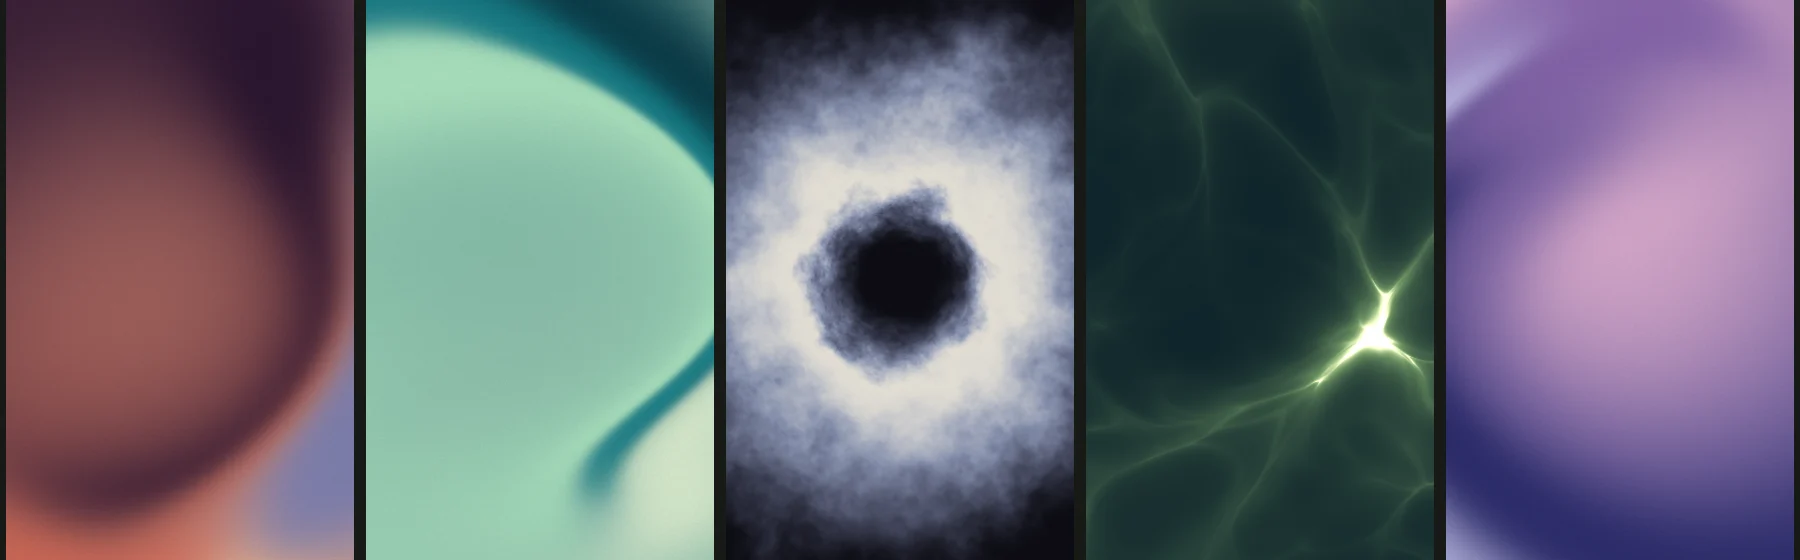
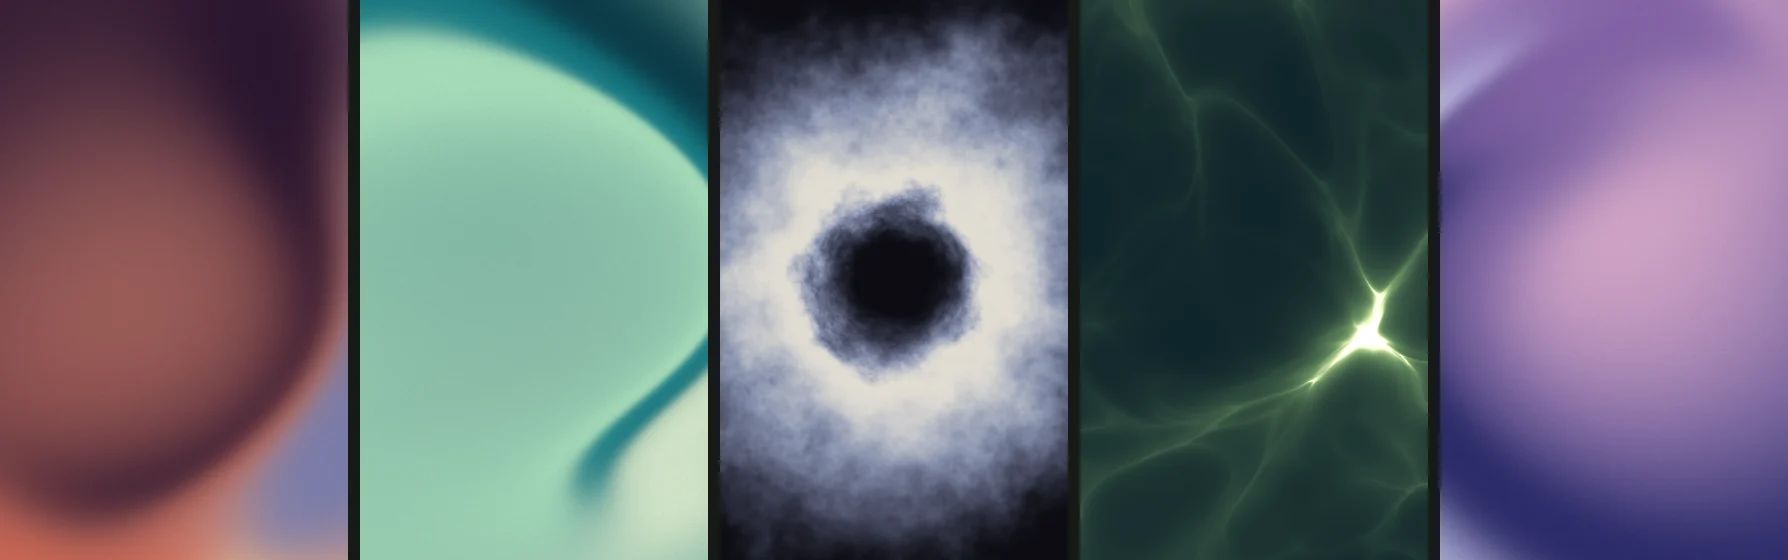
docs: clarify the preview flow and sharpen README media
- preview.md answers what a fresh agent had to guess: the version comes
  from the pinned tag, a host background task counts as host-managed,
  the project command may be an npm script and runs in --project, wait
  for address-responsive or error, and the full event list.
- Re-encode the hero loop at higher quality (no visible blocking) and
  drop the outer gutters from the effect strip.

diff --git a/plugin/skills/shader-visual-kit/references/preview.md b/plugin/skills/shader-visual-kit/references/preview.md
@@ -4,15 +4,15 @@
 
 配套 CLI 目前只支持 Windows：Node 22.12+，PowerShell 和 Koffi 原生模块可用。其他系统直接采用适合该宿主的进程管理工具，不扩大本 CLI 的承诺。
 
-CLI 与本 Skill 同版本发布。首次使用这一版本时，从 GitHub 按标签安装到宿主项目之外、按版本区分的用户级工具目录（如 LOCALAPPDATA 下的 `shader-visual-kit/<版本>`），需要网络和 git；目录里已有入口文件就直接复用。之后用 node 直接运行入口，作为宿主管理的前台或后台任务保持到使用结束：宿主停止任务时结束的是 CLI，作业随之清理。经 npx 或 npm 脚本包装后，部分宿主（如 Git Bash 下）的停止到不了 CLI；Start-Process、start、`nohup &` 等脱离调用方的启动，会在启动者退出时让预览一起停止。接口见 `node <入口> --help`。
+CLI 与本 Skill 同版本发布，版本以下方命令中的标签为准。首次使用这一版本时，从 GitHub 按标签安装到宿主项目之外、按版本区分的用户级工具目录（如 LOCALAPPDATA 下的 `shader-visual-kit/<版本>`），需要网络和 git；目录里已有入口文件就直接复用。之后用 node 直接运行入口，作为宿主管理的前台或后台任务（如 Claude Code 的后台任务）保持到用户看完、改完这一页：宿主停止任务时结束的是 CLI，作业随之清理。CLI 本身经 npx 或 npm 脚本包装后，部分宿主（如 Git Bash 下）的停止到不了它；`--` 之后的宿主命令则可以是 npm 脚本，它的整棵进程树都在作业内。Start-Process、start、`nohup &` 等脱离调用方的启动不受支持，启动者退出时预览随之停止。后台运行时读取任务输出，直到出现 `address-responsive` 或 `error`。接口见 `node <入口> --help`。
 
 ```text
 npm install --prefix <工具目录> github:Zane-0x5a/shader-visual-kit#v0.1.0
 node <工具目录>/node_modules/shader-visual-kit/cli/index.mjs preview --project <宿主目录> --url <http://127.0.0.1:端口/页面> --json -- <命令> <参数...>
 ```
 
-命令、cwd、端口与页面从宿主事实确定。Vite 等允许自动换端口的服务启用严格端口选项。CLI 不装依赖、不改项目配置、不承担编译，也不自动打开浏览器。
+命令、端口与页面从宿主事实确定，命令在 `--project` 目录中运行。Vite 等允许自动换端口的服务启用严格端口选项。CLI 不装依赖、不改项目配置、不承担编译，也不自动打开浏览器。
 
-输出 `address-responsive` 表示 HTTP 2xx 且监听进程属于此次 Windows Job；仍需检查页面是否是所需画面。工具事件在 stdout，宿主日志在 stderr。Ctrl+C、强制终止 CLI 或启动它的上层进程退出，都会清理作业内进程。子命令主动请求脱离作业时，改用适合该宿主的进程管理工具。
+输出 `address-responsive` 表示 HTTP 2xx 且监听进程属于此次 Windows Job；仍需检查页面是否是所需画面。工具事件（`starting`、`address-responsive`、`warning`、`error`、`cleanup-error`、`stopped`）在 stdout，宿主日志在 stderr。Ctrl+C、强制终止 CLI 或启动它的上层进程退出，都会清理作业内进程。子命令主动请求脱离作业时，改用适合该宿主的进程管理工具。
 
 端口已占用会拒绝启动，不接管或杀死已有服务。重定向要求明确使用最终 URL。权限不足、缺依赖、启动错误和超时按实际失败处理。日志中的路径与 URL 可供 Agent 使用当前浏览器能力打开，CLI 不依赖浏览器插件内部 API。
